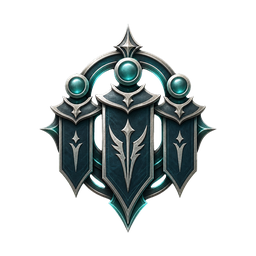
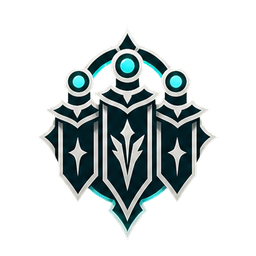
Refactor code structure for improved readability and maintainability

Changed region(s): [[0.1562, 0.0938, 0.8438, 0.9375]]

diff --git a/src/style.css b/src/style.css
@@ -4091,8 +4091,8 @@ button.world-prompt-row-result {
 
 .world-node-emblem-ring svg,
 .world-node-emblem-ring .entity-icon-image {
-  width: 24px;
-  height: 24px;
+  width: 28px;
+  height: 28px;
 }
 
 .world-node-dot-shell {
@@ -4151,13 +4151,13 @@ button.world-prompt-row-result {
 
 .world-node-dot-core .entity-icon-image {
   object-fit: contain;
-  transform: scale(1.22);
+  transform: scale(1.18);
 }
 
 .world-node-dot-core svg,
 .world-node-dot-core .entity-icon-image {
-  width: 12px;
-  height: 12px;
+  width: 15px;
+  height: 15px;
 }
 
 .world-node-card.is-mode-nearIcon .world-node-dot-core {
@@ -4173,8 +4173,8 @@ button.world-prompt-row-result {
 
 .world-node-card.is-mode-nearIcon .world-node-dot-core svg,
 .world-node-card.is-mode-nearIcon .world-node-dot-core .entity-icon-image {
-  width: 24px;
-  height: 24px;
+  width: 34px;
+  height: 34px;
 }
 
 .world-node-card.is-mode-farIcon .world-node-dot-core {
@@ -4189,8 +4189,8 @@ button.world-prompt-row-result {
 
 .world-node-card.is-mode-peripheralDot .world-node-dot-core svg,
 .world-node-card.is-mode-peripheralDot .world-node-dot-core .entity-icon-image {
-  width: 9px;
-  height: 9px;
+  width: 11px;
+  height: 11px;
 }
 
 .world-node-card.is-mode-nearIcon .world-node-mini-label {

diff --git a/src/shared/entityIcons.tsx b/src/shared/entityIcons.tsx
@@ -9,6 +9,9 @@ export type EntityIconId =
   | 'group'
   | 'concept'
   | 'event'
+  | 'operator'
+  | 'result'
+  | 'thread'
   | 'character'
   | 'environment'
   | 'asset'
@@ -39,6 +42,9 @@ const RASTER_ICON_BY_ID: Partial<Record<EntityIconId, string>> = {
   item: '/world-node-icons/world-node-object.png',
   concept: '/world-node-icons/world-node-concept.png',
   event: '/world-node-icons/world-node-event.png',
+  operator: '/world-node-icons/world-node-operator.png',
+  result: '/world-node-icons/world-node-result.png',
+  thread: '/world-node-icons/world-node-thread.png',
 }
 
 function Stroke(props: IconGlyphProps) {

diff --git a/src/features/worldGraphPage.tsx b/src/features/worldGraphPage.tsx
@@ -457,8 +457,8 @@ function WorldNodeCard({ data, selected }: NodeProps<Node<WorldNodeData>>) {
     record.kind === 'entity'
       ? iconForWorldEntity(record.entity.nodeType)
       : record.kind === 'operator'
-        ? 'graph'
-        : 'cinematic'
+        ? 'operator'
+        : 'result'
   const isGenerating =
     record.kind === 'entity'
       ? record.entity.metadata?.generation && typeof record.entity.metadata.generation === 'object' && (record.entity.metadata.generation as { state?: unknown }).state === 'pending'
